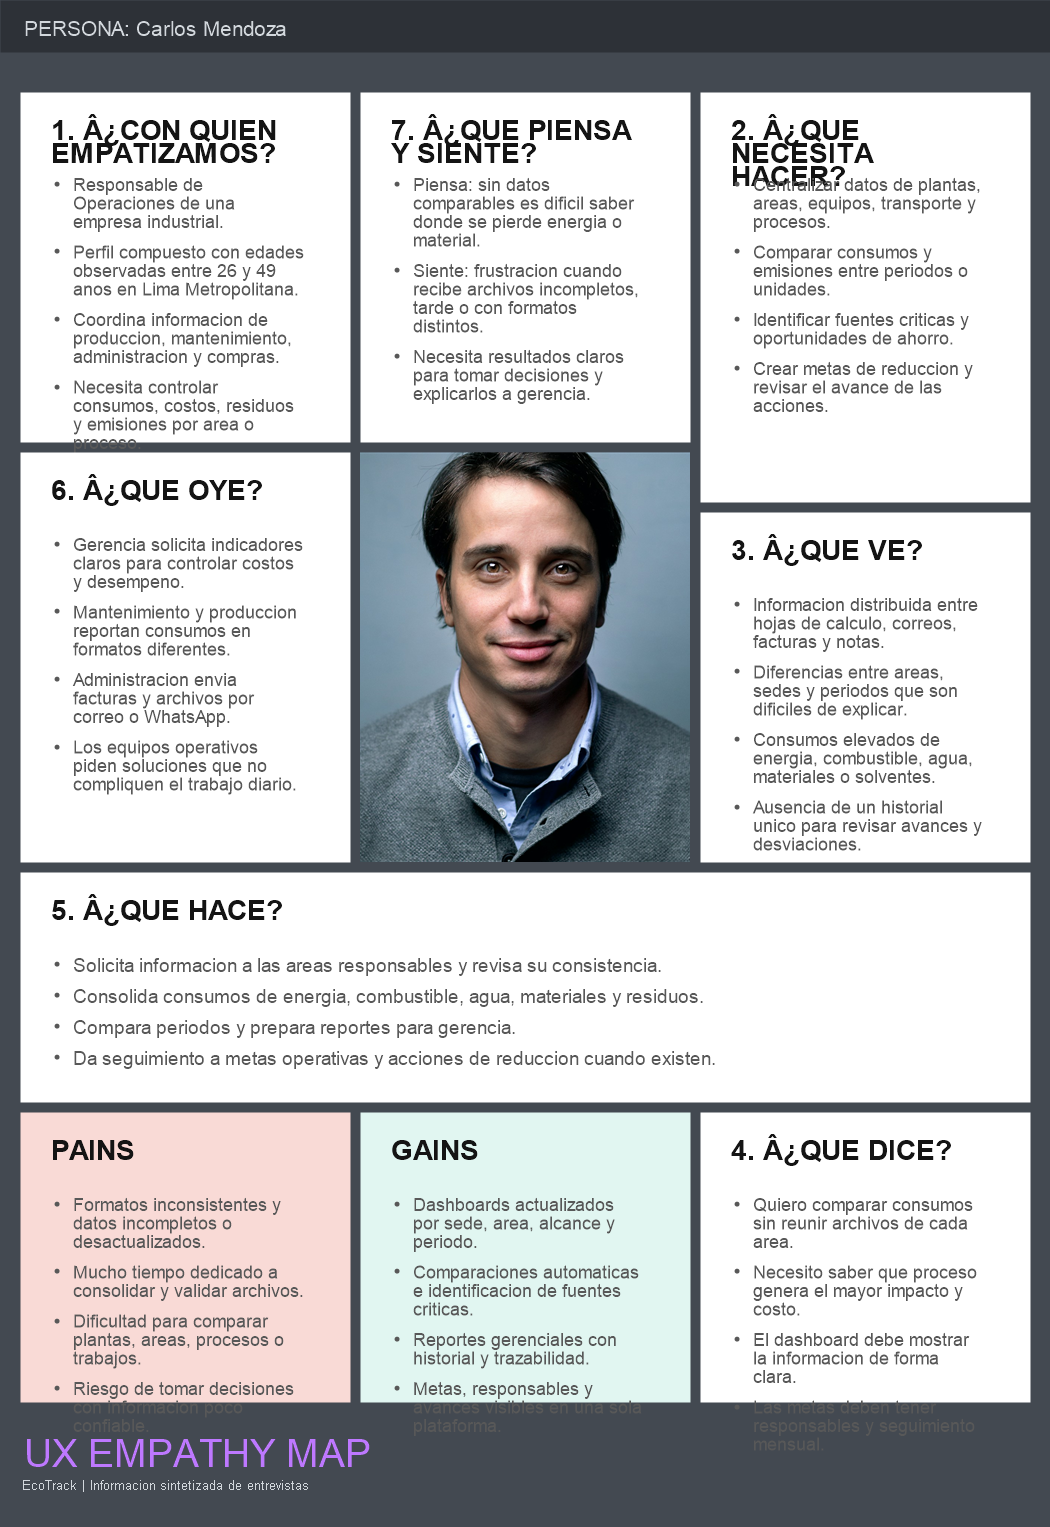
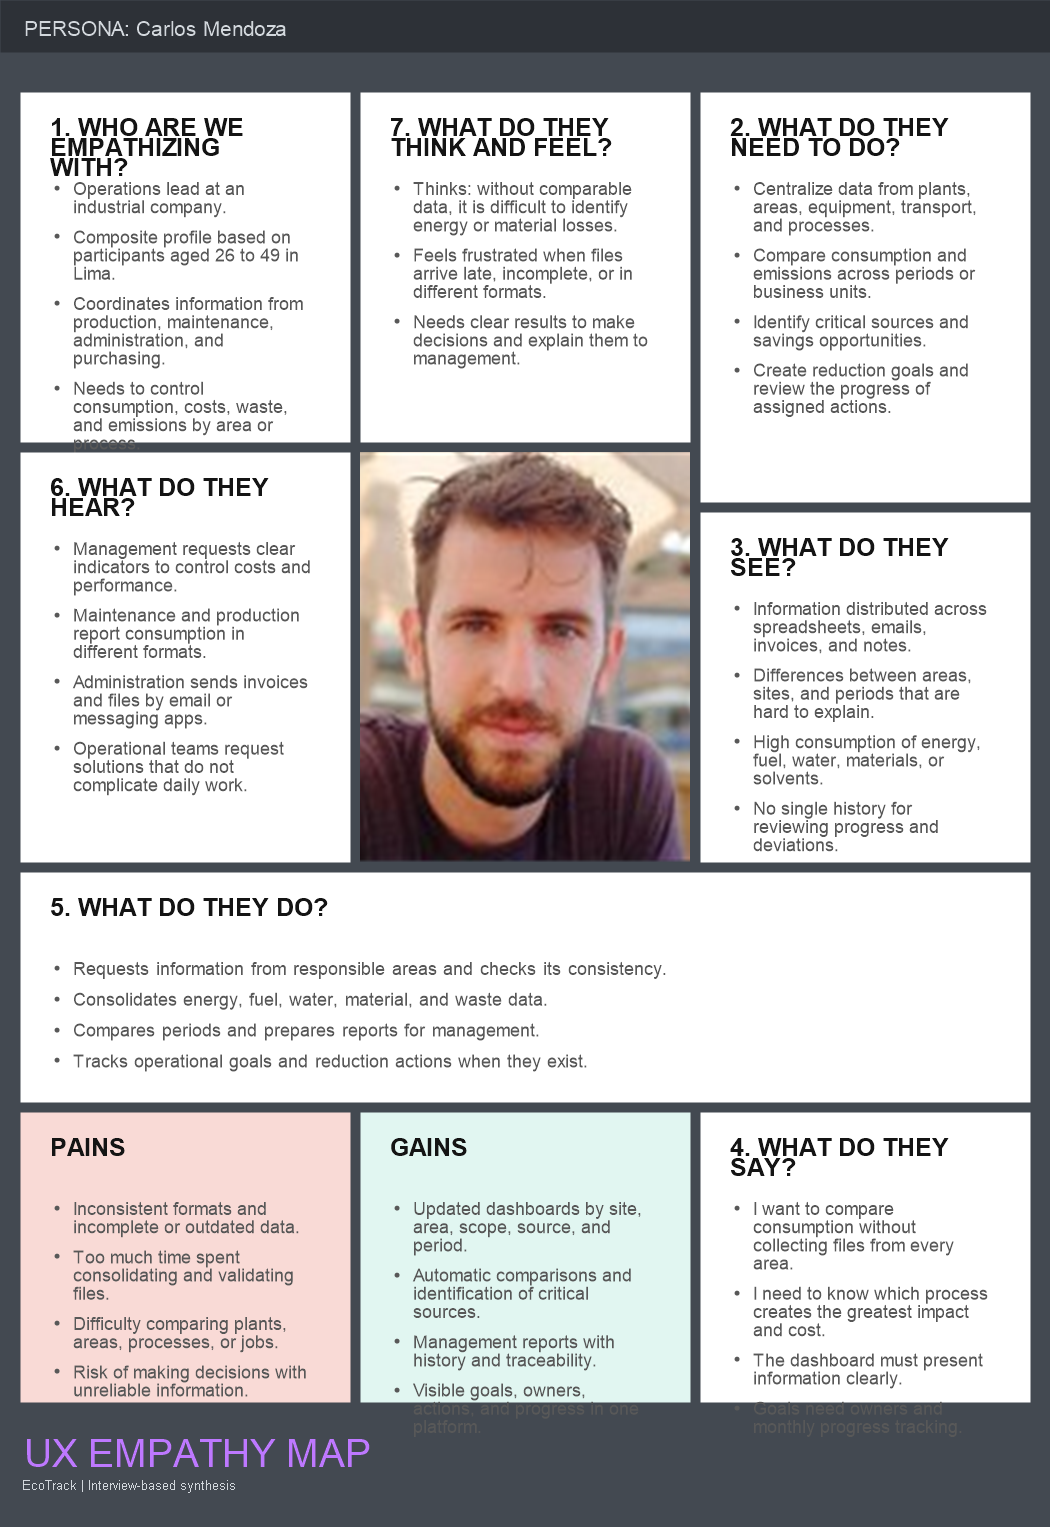
docs(chapter-02): fix English empathy maps

diff --git a/README.md b/README.md
@@ -913,20 +913,19 @@ A continuacion, se presentan los User Journey Maps de ambos segmentos. Cada mapa
 
 ### 2.3.4. Empathy Mapping.
 
-El Mapa de Empatia sintetiza las observaciones de las entrevistas mediante siete preguntas: con quien se empatiza, que necesita hacer, que ve, que dice, que hace, que oye y que piensa o siente. Cada mapa tambien presenta los pains y gains del segmento correspondiente.
+The Empathy Maps synthesize the interview findings through seven questions: who the team is empathizing with, what the persona needs to do, sees, says, does, hears, and thinks or feels. Each map also presents the main pains and gains of its target segment.
 
-#### Empathy Map 1: Responsable de Calidad y Sostenibilidad (Empresa exportadora)
+#### Empathy Map 1: Quality and Sustainability Lead (Exporting company)
 
-El siguiente Mapa de Empatia profundiza en la experiencia de una responsable de Calidad y Sostenibilidad de una empresa exportadora. Se identifican sus principales pensamientos y sentimientos (preocupacion por cumplir auditorias, necesidad de informacion confiable), lo que ve en su entorno (registros en Excel, documentos fisicos, fotos y evidencias dispersas), lo que oye de clientes y certificadoras (solicitudes de informacion ambiental y trazabilidad), lo que dice y hace (consolidar datos manualmente, preparar reportes por mes o lote), asi como sus principales pains (perdida de informacion, duplicidad de archivos, observaciones de auditoria) y gains (reducir tiempo, generar reportes ordenados y demostrar cumplimiento ambiental).
+This map represents a composite persona based on interviews E01, E02, and E03. It focuses on environmental evidence, reporting, client requests, certifications, and audit traceability.
 
-![Empathy Map Empresa Exportadora](assets/chapter-02/empathy-map-empresa-exportadora.png)
+![Empathy Map - Exporting Company](assets/chapter-02/empathy-map-empresa-exportadora.png)
 
-#### Empathy Map 2: Responsable Operativo Industrial (Corporacion o mediana empresa industrial)
+#### Empathy Map 2: Industrial Operations Lead (Corporation or medium-sized industrial company)
 
-El siguiente Mapa de Empatia analiza la experiencia de un responsable operativo industrial. Se exploran sus pensamientos y sentimientos (presion por controlar consumos, necesidad de reportes claros para gerencia), lo que ve (datos separados por areas, sedes o plantas), lo que oye (solicitudes de administracion, mantenimiento, operaciones y sostenibilidad), lo que dice y hace (revisar consumos, consolidar informacion, comparar periodos), y sus pains (formatos inconsistentes, informacion incompleta, mucho tiempo de consolidacion) y gains (centralizar informacion, visualizar indicadores, comparar resultados y hacer seguimiento de metas de reduccion).
+This map represents a composite persona based on interviews E04, E05, and E06. It focuses on operational data consolidation, consumption monitoring, management reporting, and reduction goals.
 
-![Empathy Map Empresa Industrial](assets/chapter-02/empathy-map-empresa-industrial.png)
-
+![Empathy Map - Industrial Company](assets/chapter-02/empathy-map-empresa-industrial.png)
 ## 2.4. Big Picture Event Storming
 
 El Big Picture Event Storming representa el flujo de negocio completo de EcoTrack desde el registro de la organizacion hasta la revision de resultados y la generacion de reportes. El diagrama utiliza actores, comandos, eventos de dominio, politicas y read models para mostrar relaciones y no solo una lista de eventos.
